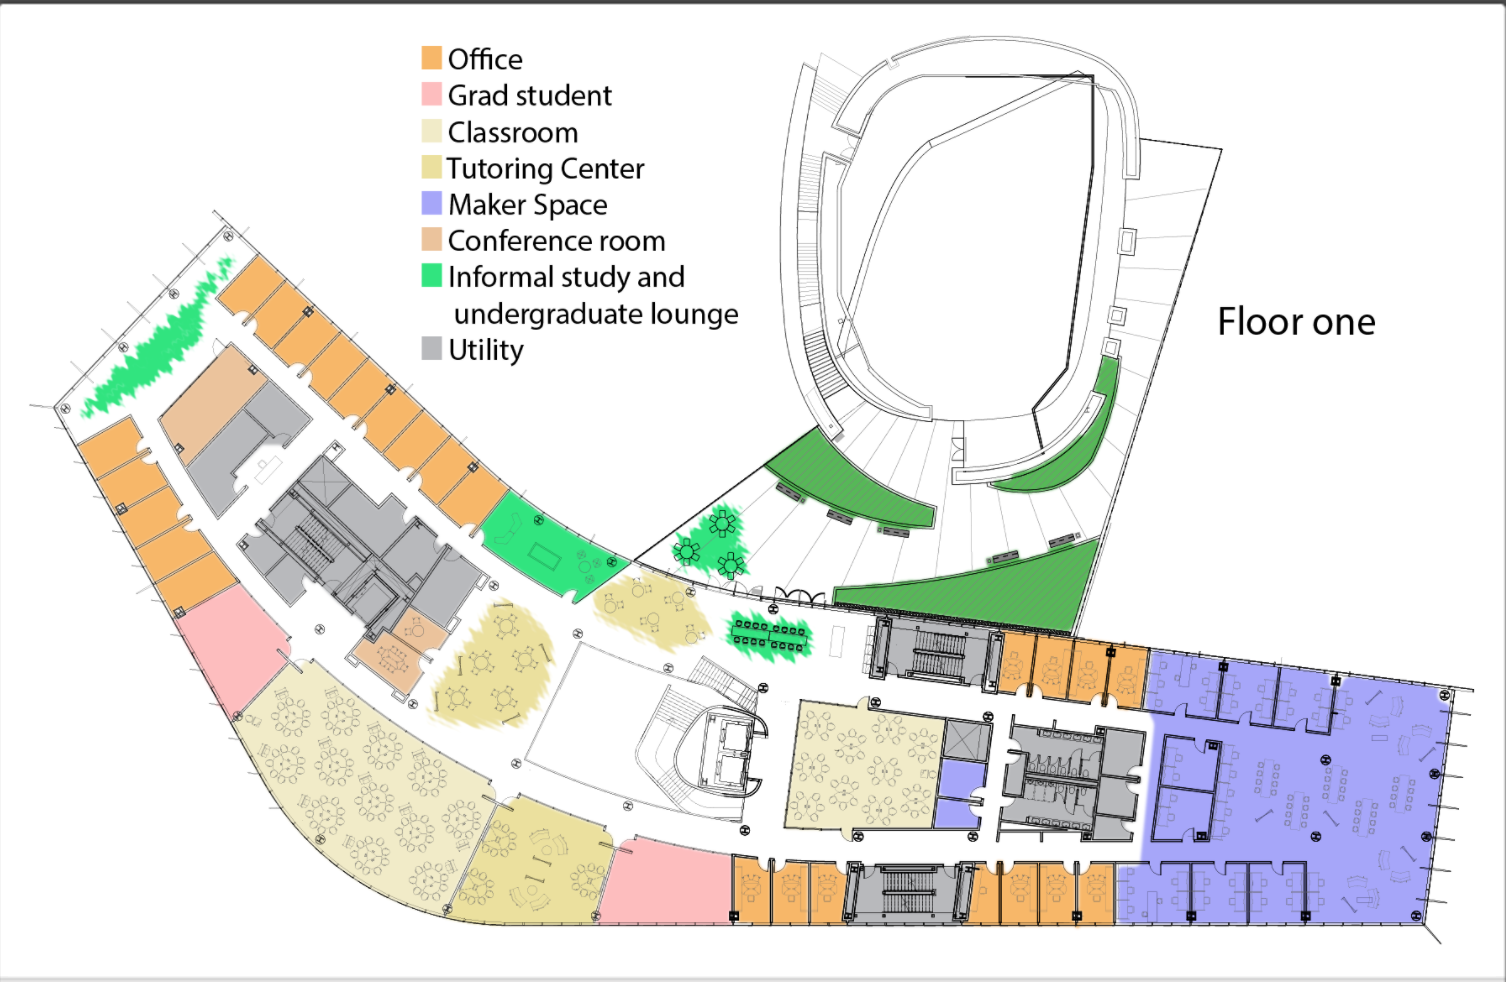
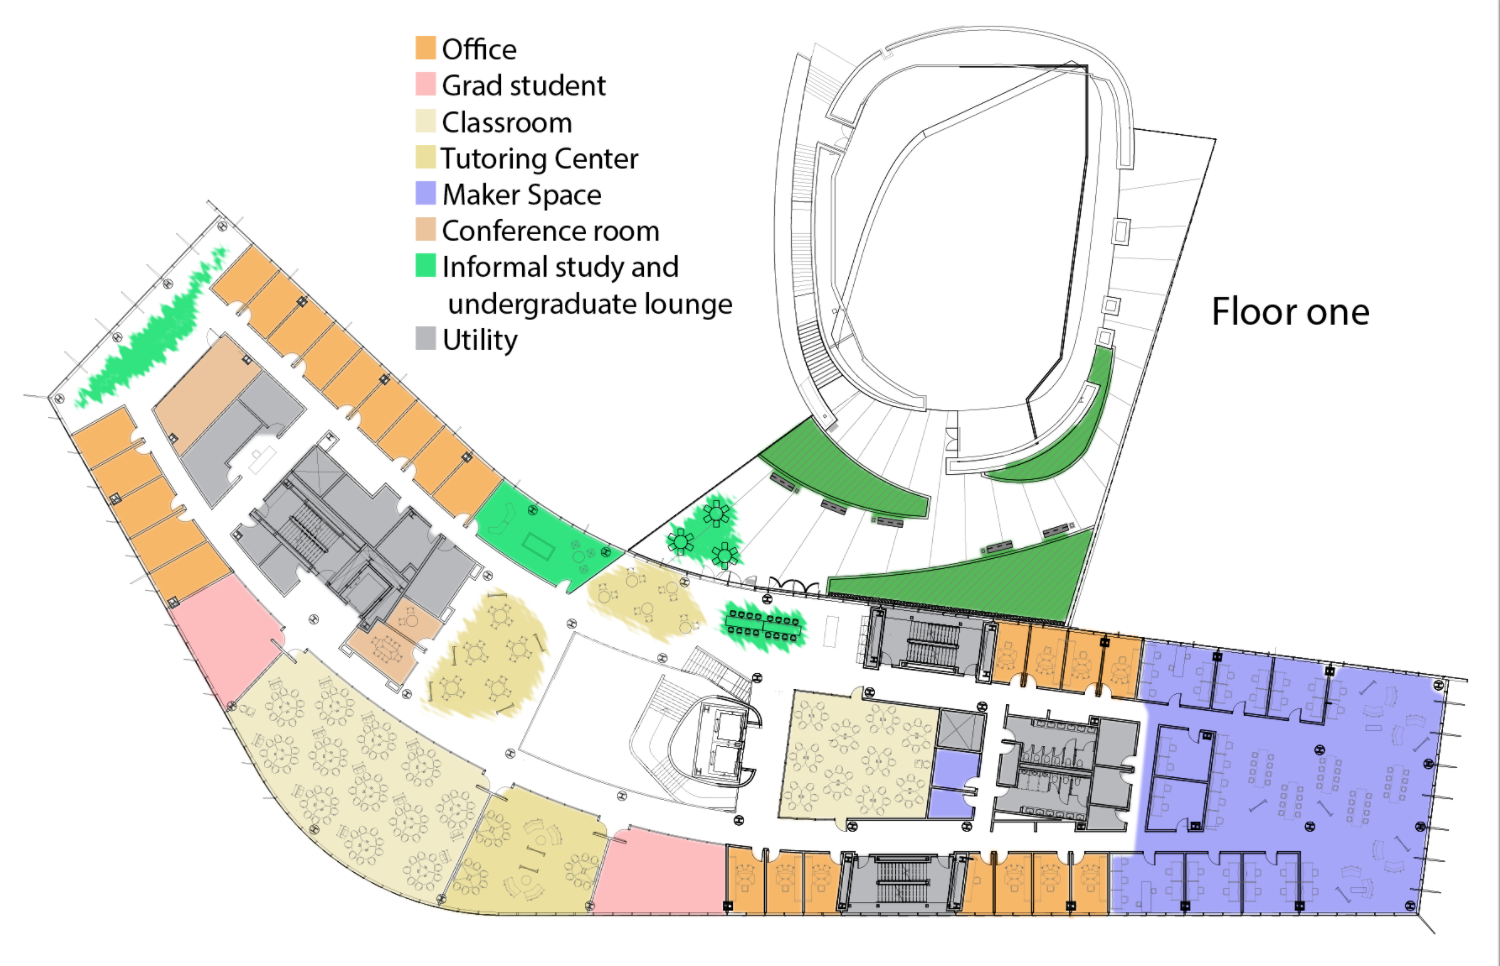
Updated map, and check in page

diff --git a/lineup.html b/lineup.html
@@ -4,27 +4,21 @@
     <meta name="viewport" content="width=device-width, initial-scale=1" />
     <link rel="stylesheet" type="text/css" href="css/main.css">
     <link rel="stylesheet" type="text/css" href="css/animate.css">
-    
 </head>
 <body>
     <div class="screen">
+        <div class="navbar">
+            <a href="index.html" class="backbutton">Back</a>
+            <div class="navprofile">
+                <img class="navprofileimage" src="images/michael.jpg" alt="" />
+            </div>
+        </div>
         <div class="body">
-            <p style="text-align:center; padding: 20px; margin-top: 30px;"><img style="width: 150px; border-radius: 50%;" align="middle" src="images/michael.jpg" alt="" /></p>
-            <p class="professorname" style="text-align:center;">Michael George</p>
-            <p style="text-align:center;">PhD <br> line 3</p>
-            <div class="shortcuts">
-                <div class="shortcut">
-                    <a href="map.html"><img align="middle" src="images/worldwide.png" alt="" /></a>
-                    <p>Map</p>
-                </div>
-                <div class="shortcut">
-                    <a href="about.html"><img align="middle" src="images/user.png" alt="" /></a>
-                    <p>Office Hours</p>
-                </div>
-                <div class="shortcut">
-                    <a href="checkin.html"><img align="middle" src="images/placeholder.png" alt="" /></a>
-                    <p>Check In</p>
-                </div>
+            <div class="dialog" style="text-align:center;padding: 60px;">
+                <p style="padding: 40px;">
+                    Michael is currently holding office hours!
+                </p>
+                <a class="button" href="lineup.html"> I want to see Michael.</a>
             </div>
         </div>
     </div>
@@ -32,8 +26,8 @@
         <img style="width:300px;" src="images/logo.png">
         <p>Application to run on tablet in front of each room in the Brendan Iribe Center.</p>
         <hr>
-        <h3 style="text-align: center;">Home Page</h3>
-        <p> Notes.</p>
+        <h3 style="text-align: center;">Check In Page</h3>
+        <p> Check into line of students waiting to see professor, or leave professor a note if professor is not available</p>
         <hr>
         <div class="credits">
             <div class="author">
@@ -54,8 +48,4 @@
             </div>
         </div>
     </div>
-        
-        
-<script src="../vendor/jquery/jquery.min.js"></script>    
-        
 </body>

diff --git a/checkin.html b/checkin.html
@@ -14,9 +14,12 @@
                 </div>
             </div>
             <div class="body">
-                <p style="text-align:center; padding: 40px;">
-                    This is the check in page
-                </p>
+                <div class="dialog" style="text-align:center;padding: 60px;">
+                    <p style="padding: 40px;">
+                        Michael is currently holding office hours!
+                    </p>
+                    <a class="button" href="lineup.html"> I want to see Michael.</a>
+                </div>
             </div>
         </div>
         <div class="namecard animated fadeInRight">
@@ -24,7 +27,7 @@
             <p>Application to run on tablet in front of each room in the Brendan Iribe Center.</p>
             <hr>
             <h3 style="text-align: center;">Check In Page</h3>
-            <p> Notes.</p>
+            <p> Check into line of students waiting to see professor, or leave professor a note if professor is not available</p>
             <hr>
             <div class="credits">
                 <div class="author">

diff --git a/map.html b/map.html
@@ -14,9 +14,7 @@
                 </div>
             </div>
             <div class="body">
-                <p style="text-align:center; padding: 40px;">
-                    This is the map
-                </p>
+                <img src="images/first_floor.png" style="width:7.7in;">
             </div>
         </div>
         <div class="namecard animated fadeInRight">
@@ -24,7 +22,7 @@
             <p>Application to run on tablet in front of each room in the Brendan Iribe Center.</p>
             <hr>
             <h3 style="text-align: center;">Maps Page</h3>
-            <p> Notes.</p>
+            <p> Students are able to use this floorplan to help navigate through the building.</p>
             <hr>
             <div class="credits">
                 <div class="author">

diff --git a/css/main.css b/css/main.css
@@ -93,3 +93,11 @@ hr {
 .shortcuts {
     text-align: center;
 }
+
+.button {
+    text-align: center;
+    background-color: #D80027;
+    color: white;
+    padding: 15px;
+    margin: 50px;
+}
